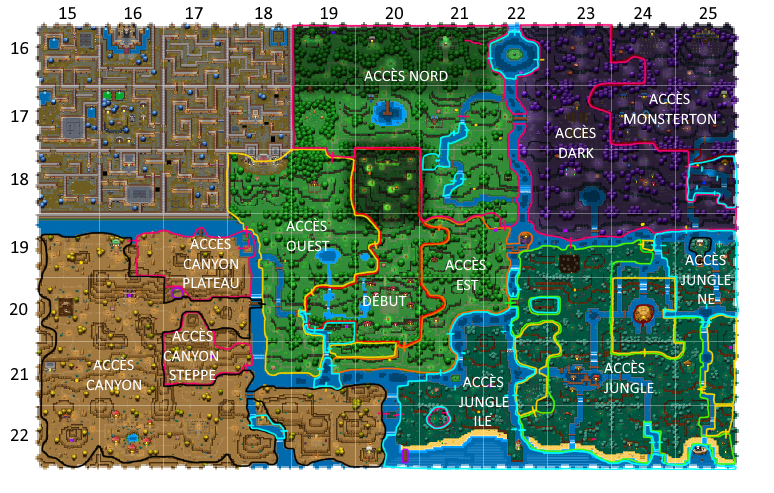
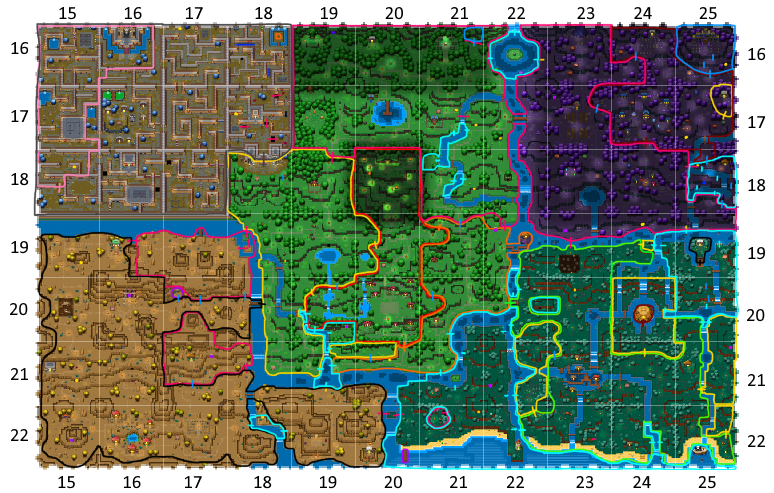
Correction dépendance régions

diff --git a/BlossomTales2.Randomizer.mm/Randomizer/RandomizerSingleton.cs b/BlossomTales2.Randomizer.mm/Randomizer/RandomizerSingleton.cs
@@ -124,23 +124,23 @@ namespace BlossomTales2.Randomizer.mm
             //levier: épée || grappin || boomerang || arc
             //water switch: épée
             //cart switch: épée || grappin || boomerang || arc
-            //accès est: épée 2 || flippers || boomerang || accès nord && grappin
-            //accès ouest: bombes || flippers || boomerang || accès nord && grappin
-            //accès nord: accès ouest && grappin || accès est && (boomerang || grappin)
-            //accès jungle: accès est && bouteille || accès jungle ile || accès dark
+            //accès est: épée 2 || flippers || boomerang || bombes && grappin
+            //accès ouest: bombes || flippers || boomerang || épée 2 && grappin
+            //accès nord: boomerang || grappin && (bombes || flippers || épée 2)
+            //accès jungle: (accès est && (bouteille || flippers)) || (accès dark && grappin)
             //accès jungle ile: accès est && flippers || accès canyon && grappin
             //accès jungle NE: accès jungle && flippers
             //accès morkla: accès jungle && canne pêche && (bombes || flippers)
-            //accès canyon: accès ouest && arc
-            //accès canyon plateau: (accès canyon || accès ouest) && grappin
-            //accès canyon steppe: accès canyon && grappin
+            //accès canyon: accès ouest && (arc || grappin)
+            //accès canyon steppe nord: accès ouest && (arc && boomerang || grappin)
+            //accès canyon steppe sud: accès canyon && (grappin || boomerang)
             //ouvrir portes note: instrument && chanson sesame
             //accès temple: accès canyon && ouvrir portes note
             //accès temple 2: accès temple && clé
             //accès temple 3: accès temple 2 && leviers && clé && damage
             //accès temple 4: accès temple 3 && grappin
             //accès dark: accès nord && damage
-            //accès monsterton: accès dark && bouteille && canne pêche
+            //accès monsterton: accès dark && (bouteille && canne pêche || boomerang)
             //accès mansion: accès monsterton && boomerang
             //accès mansion 2: accès mansion && clé && damage
             //accès mansion 3: accès mansion 2 && teleporter

diff --git a/BlossomTales2.Randomizer.mm/Randomizer/World/World.cs b/BlossomTales2.Randomizer.mm/Randomizer/World/World.cs
@@ -20,7 +20,7 @@ namespace BlossomTales2.Randomizer.mm
         public JungleNorthEast JungleNorthEast { get; }
         public JungleIsland JungleIsland { get; }
         public MorklaDungeon MorklaDungeon { get; }
-        public CanyonNorthWestRegion CanyonNorthWest { get; }
+        public CanyonNorthRegion CanyonNorth { get; }
         public CanyonSouthWestRegion CanyonSouthWest { get; }
         public CanyonSouthEastRegion CanyonSouthEast { get; }
         public CanyonVillageRegion CanyonVillage { get; }
@@ -50,7 +50,7 @@ namespace BlossomTales2.Randomizer.mm
             JungleNorthEast = new JungleNorthEast(this);
             JungleIsland = new JungleIsland(this);
             MorklaDungeon = new MorklaDungeon(this);
-            CanyonNorthWest = new CanyonNorthWestRegion(this);
+            CanyonNorth = new CanyonNorthRegion(this);
             CanyonSouthWest = new CanyonSouthWestRegion(this);
             CanyonSouthEast = new CanyonSouthEastRegion(this);
             CanyonIsland = new CanyonIslandRegion(this);
@@ -80,7 +80,7 @@ namespace BlossomTales2.Randomizer.mm
                 JungleNorthEast,
                 JungleIsland,
                 MorklaDungeon,
-                CanyonNorthWest,
+                CanyonNorth,
                 CanyonSouthWest,
                 CanyonSouthEast,
                 CanyonIsland,

diff --git a/BlossomTales2.Randomizer.mm/Randomizer/Regions/Overworld/OverworldNorth.cs b/BlossomTales2.Randomizer.mm/Randomizer/Regions/Overworld/OverworldNorth.cs
@@ -6,8 +6,10 @@ namespace BlossomTales2.Randomizer.mm
 {
     public class OverworldNorth : Region
     {
-        public override Predicate<Inventory> CanAccess => inventory => World.OverworldWest.CanAccess(inventory) && inventory.HasGrappleHook ||
-                                                                       World.OverworldEast.CanAccess(inventory) && (inventory.HasBoomerang || inventory.HasGrappleHook);
+        public override Predicate<Inventory> CanAccess => inventory => inventory.HasBoomerang
+                                                                       || inventory.HasGrappleHook &&
+                                                                       (inventory.HasBombs || inventory.HasFlipper ||
+                                                                        inventory.CanCutPegs);
 
         public OverworldNorth(World world) : base("Northern Overworld", world)
         {

diff --git a/BlossomTales2.Randomizer.mm/Randomizer/Regions/Canyon/CanyonNorthRegion.cs b/BlossomTales2.Randomizer.mm/Randomizer/Regions/Canyon/CanyonNorthRegion.cs
@@ -6,12 +6,12 @@ using Microsoft.Xna.Framework;
 
 namespace BlossomTales2.Randomizer.mm.Canyon
 {
-    public class CanyonNorthWestRegion: Region
+    public class CanyonNorthRegion: Region
     {
         public override Predicate<Inventory> CanAccess =>
-            inventory => (inventory.HasGrappleHook || inventory.HasBow) && (World.CanyonSouthWest.CanAccess(inventory) || World.CanyonSteppesNorth.CanAccess(inventory) || World.CanyonSteppesSouth.CanAccess(inventory) );
+            inventory => World.OverworldWest.CanAccess(inventory) && (inventory.HasBow || inventory.HasGrappleHook);
 
-        public CanyonNorthWestRegion(World world) : base("Canyon North West Region", world)
+        public CanyonNorthRegion(World world) : base("Canyon North Region", world)
         {
             Locations = new List<Location>
             {

diff --git a/BlossomTales2.Randomizer.mm/Randomizer/Regions/Overworld/OverworldEast.cs b/BlossomTales2.Randomizer.mm/Randomizer/Regions/Overworld/OverworldEast.cs
@@ -6,8 +6,9 @@ namespace BlossomTales2.Randomizer.mm
 {
     public class OverworldEast : Region
     {
-        public override Predicate<Inventory> CanAccess => inventory => inventory.CanCutPegs || inventory.HasBoomerang || inventory.HasFlipper;/* ||
-                                                                       World.OverworldNorth.CanAccess(inventory) && inventory.HasGrappleHook;*/
+        public override Predicate<Inventory> CanAccess => inventory =>
+            inventory.CanCutPegs || inventory.HasBoomerang || inventory.HasFlipper
+            || inventory.HasBombs && inventory.HasGrappleHook;
 
         public OverworldEast(World world) : base("Eastern Overworld", world)
         {

diff --git a/BlossomTales2.Randomizer.mm/Randomizer/Regions/Overworld/OverworldWest.cs b/BlossomTales2.Randomizer.mm/Randomizer/Regions/Overworld/OverworldWest.cs
@@ -7,8 +7,8 @@ namespace BlossomTales2.Randomizer.mm
     public class OverworldWest : Region
     {
         public override Predicate<Inventory> CanAccess =>
-            inventory => inventory.HasBombs || inventory.HasFlipper || inventory.HasBoomerang;/* ||
-                                                                           World.OverworldNorth.CanAccess(inventory) && inventory.HasGrappleHook;*/
+            inventory => inventory.HasBombs || inventory.HasFlipper || inventory.HasBoomerang ||
+                         inventory.CanCutPegs && inventory.HasGrappleHook;
 
         public OverworldWest(World world) : base("Western Overworld", world)
         {

diff --git a/BlossomTales2.Randomizer.mm/Randomizer/Regions/Jungle/JungleFront.cs b/BlossomTales2.Randomizer.mm/Randomizer/Regions/Jungle/JungleFront.cs
@@ -4,7 +4,9 @@ namespace BlossomTales2.Randomizer.mm
 {
     public class JungleFront : Region
     {
-        public override Predicate<Inventory> CanAccess => inventory => true;
+        public override Predicate<Inventory> CanAccess => inventory => (World.OverworldEast.CanAccess(inventory)
+                                                                       && (inventory.CanCraftPotion(ItemType.Jar_Health) || inventory.HasFlipper))
+                                                                       || (World.DarkWoodsFront.CanAccess(inventory) && inventory.HasGrappleHook);
 
         public JungleFront(World world) : base("Jungle Front", world)
         {

diff --git a/BlossomTales2.Randomizer.mm/Randomizer/Regions/Canyon/CanyonTempleRegion.cs b/BlossomTales2.Randomizer.mm/Randomizer/Regions/Canyon/CanyonTempleRegion.cs
@@ -12,7 +12,7 @@ namespace BlossomTales2.Randomizer.mm.Canyon
 
     public class CanyonTempleRegion : Region
     {
-        public override Predicate<Inventory> CanAccess => inventory => (World.CanyonNorthWest.CanAccess(inventory) && inventory.CanOpenNoteDoor);
+        public override Predicate<Inventory> CanAccess => inventory => (World.CanyonNorth.CanAccess(inventory) && inventory.CanOpenNoteDoor);
 
         private Predicate<Inventory> CanAccessTemple2 =>  inventory => this.CanAccess(inventory) &&( ((inventory.HasBow && inventory.CanActivateBlueSwitch) || inventory.HasGrappleHook));
 

diff --git a/BlossomTales2.Randomizer.mm/Randomizer/Regions/Jungle/MorklaDungeon.cs b/BlossomTales2.Randomizer.mm/Randomizer/Regions/Jungle/MorklaDungeon.cs
@@ -4,7 +4,9 @@ namespace BlossomTales2.Randomizer.mm
 {
     public class MorklaDungeon : Region
     {
-        public override Predicate<Inventory> CanAccess => inventory => true;
+        public override Predicate<Inventory> CanAccess => inventory => World.JungleBack.CanAccess(inventory)
+                                                                       && inventory.HasFishingRod
+                                                                       && (inventory.HasBombs || inventory.HasFlipper);
 
         public MorklaDungeon(World world) : base("Morkla", world)
         {

diff --git a/BlossomTales2.Randomizer.mm/Randomizer/World/Inventory.cs b/BlossomTales2.Randomizer.mm/Randomizer/World/Inventory.cs
@@ -21,6 +21,7 @@ namespace BlossomTales2.Randomizer.mm
         public bool HasGrappleHook  => Items.ContainsKey(ItemType.GrappleHook);
         public bool HasBoomerang => Items.ContainsKey(ItemType.Boomerang);
         public bool HasShovel => Items.ContainsKey(ItemType.Shovel);
+        public bool HasFishingRod => Items.ContainsKey(ItemType.FishingRod);
         public bool HasBeatenMorklaBoss => Items.ContainsKey(ItemType.MorklaBoss);
         public bool HasKeys => Items.ContainsKey(ItemType.Gold_Key);
         public bool HasTreeSeeds => Items.ContainsKey(ItemType.TreeSeed);

diff --git a/BlossomTales2.Randomizer.mm/Randomizer/Regions/Canyon/CanyonSteppesNorthRegion.cs b/BlossomTales2.Randomizer.mm/Randomizer/Regions/Canyon/CanyonSteppesNorthRegion.cs
@@ -9,7 +9,7 @@ namespace BlossomTales2.Randomizer.mm.Canyon
     public class CanyonSteppesNorthRegion : Region
     {
         public override Predicate<Inventory> CanAccess =>
-            inventory => inventory.HasGrappleHook && (World.OverworldWest.CanAccess(inventory) || World.CanyonNorthWest.CanAccess(inventory) );
+            inventory => World.OverworldWest.CanAccess(inventory) && (inventory.HasBow && inventory.HasBoomerang || inventory.HasGrappleHook);
 
         public CanyonSteppesNorthRegion(World world) : base("Steppes North Region", world)
         {

diff --git a/BlossomTales2.Randomizer.mm/Randomizer/Regions/DarkWoods/Monsterton.cs b/BlossomTales2.Randomizer.mm/Randomizer/Regions/DarkWoods/Monsterton.cs
@@ -4,7 +4,8 @@ namespace BlossomTales2.Randomizer.mm
 {
     public class Monsterton : Region
     {
-        public override Predicate<Inventory> CanAccess => inventory => true;
+        public override Predicate<Inventory> CanAccess => inventory => World.DarkWoodsFront.CanAccess(inventory)
+                                                                       && (inventory.CanCraftPotion(ItemType.Jar_Ghost) || inventory.HasBoomerang);
 
         public Monsterton(World world) : base("Monsterton", world)
         {
